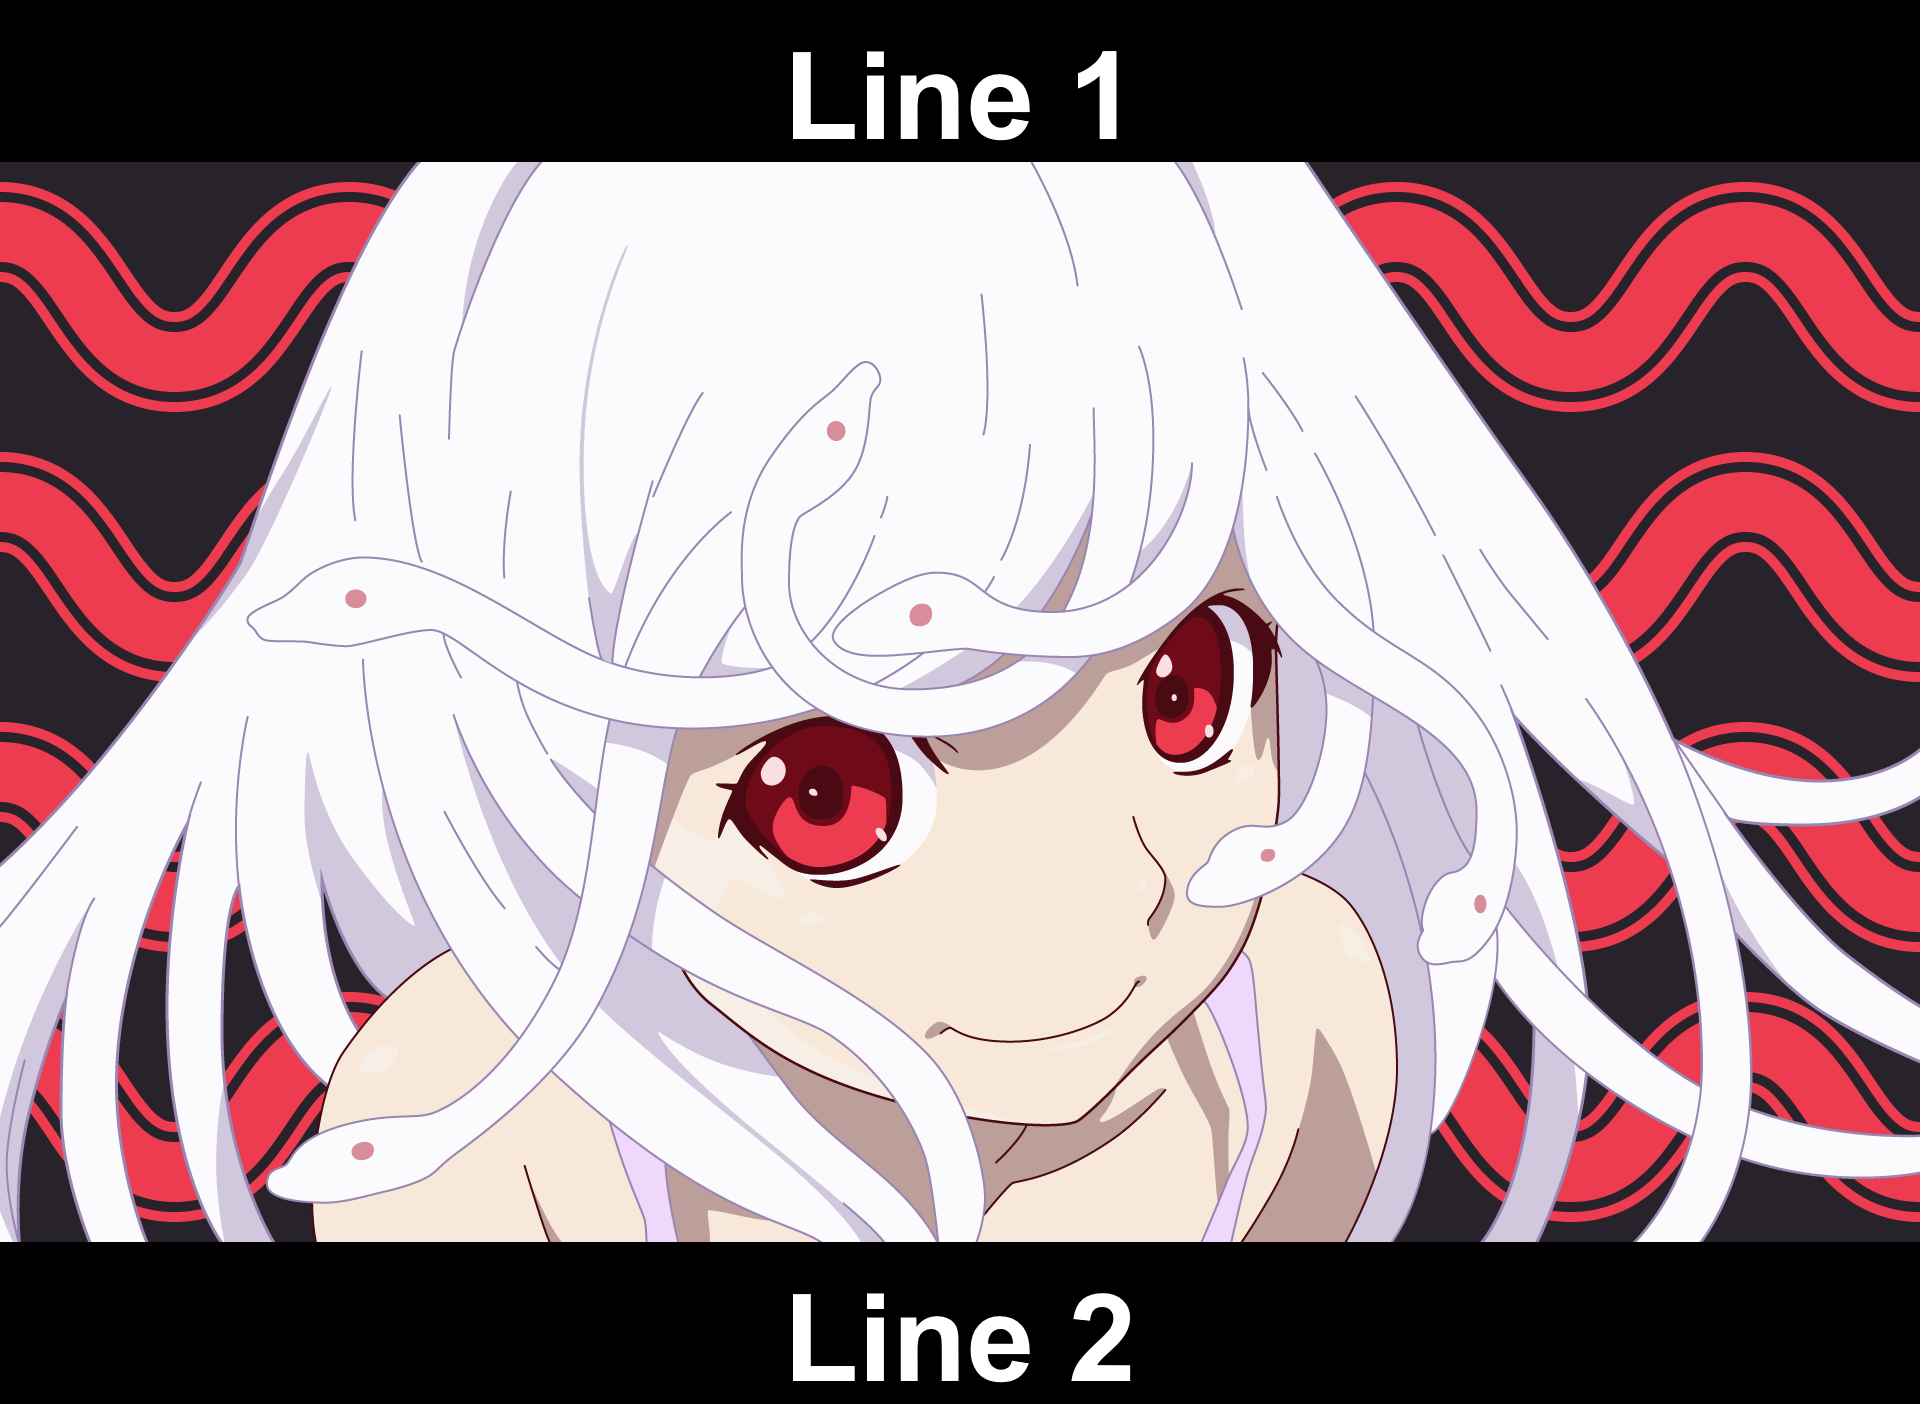
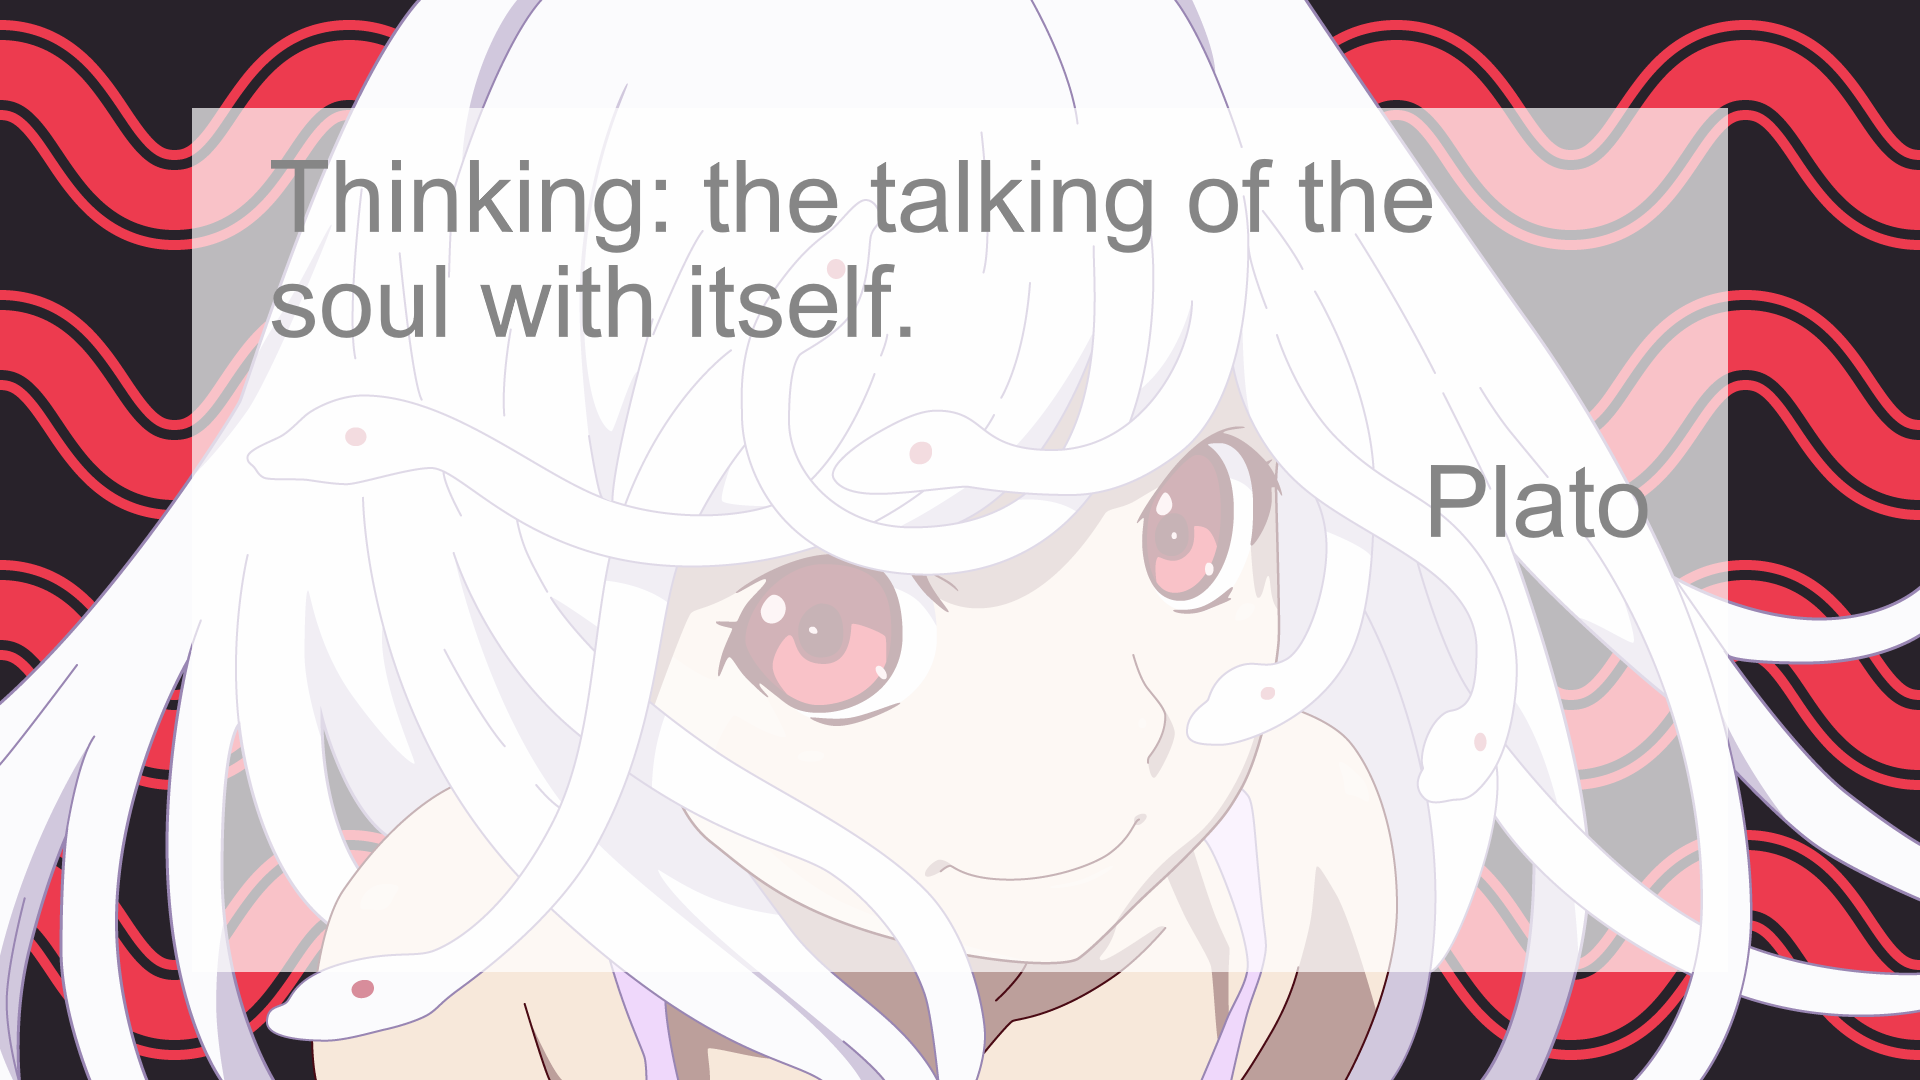
Update Type 2

diff --git a/My Meme/assets/type2/palette.js b/My Meme/assets/type2/palette.js
@@ -1,7 +1,7 @@
 var canvas = document.getElementById("view");
 var ctx = canvas.getContext("2d");
 
-var input, fr, bground, textColor, textAColor, text;
+var input, fr, bground, textColor, textAColor, text, sign, txtSize, currentY;
 
 function draw(){
 	"use strict";
@@ -18,16 +18,63 @@ function draw(){
 		ctx.drawImage(bground, 0, 0);
 		
 		var border = 0.1;
-		var opacity = 0.6;
+		var border2 = 0.05;
+		var opacity = getOpa();
 		
-		textAColor = "#FFFFFF";
+		textAColor = "#" + getAreColor();
+		textColor = "#" + getTxtColor();
 		
 		//Draw Text Area
 		ctx.globalAlpha = opacity;
 		ctx.fillStyle = textAColor;
 		ctx.fillRect(bground.width*border, bground.height*border, bground.width - 2*bground.width*border, bground.height - 2*bground.height*border);
 		ctx.globalAlpha = 1.0;
+		
+		//Draw Text
+		if(text !== null && text !== undefined && sign !== null && sign !== undefined){
+			txtSize = getTxtSize();
+			
+			ctx.font = txtSize + "px Arial";
+			ctx.fillStyle = textColor;
+			ctx.textAlign = "left";
+			ctx.textBaseline = "top";
+			wrapText(ctx, text, bground.width*border + (bground.width - 2*bground.width*border)*border2, bground.height*border + (bground.height - 2*bground.height*border)*border2, bground.width - 2*(bground.width*border + (bground.width - 2*bground.width*border)*border2) ,txtSize);
+			ctx.textAlign = "right";
+			ctx.fillText(sign, bground.width - (bground.width - 2*bground.width*border)*border2 - bground.width*border, currentY+2*txtSize);
+		}
 	}
+}
+
+function getTxtSize(){
+	"use strict";
+	if(bground !== null && bground !== undefined && document.getElementById('fsize')){
+		return document.getElementById('fsize').value;
+	}
+	return 16;
+}
+
+function getTxtColor(){
+	"use strict";
+	if(bground !== null && bground !== undefined && document.getElementById('fcolor')){
+		return document.getElementById('fcolor').value;
+	}
+	return '000000';
+}
+
+function getAreColor(){
+	"use strict";
+	if(bground !== null && bground !== undefined && document.getElementById('acolor')){
+		return document.getElementById('acolor').value;
+	}
+	return 'FFFFFF';
+}
+
+function getOpa(){
+	"use strict";
+	if(bground !== null && bground !== undefined && document.getElementById('aopa')){
+		return parseFloat(document.getElementById('aopa').value);
+	}	
+	return 0.6;
 }
 
 function updateBGfromExist(img){
@@ -55,14 +102,21 @@ function updateBGfromFile(){
 	fr.readAsDataURL(input[0]);
 }
 
-function updateText(){
-	
+function updateContent(){
+	"use strict";
+	if(bground !== null && bground !== undefined){
+		//insert text
+		text = document.getElementById('txtContent').value;
+		sign = document.getElementById('sign').value;
+		draw();
+	}
 }
 
 function wrapText(context, text, x, y, maxWidth, fontSize){
-	var words = text.split(' ');
+	"use strict";
+		var words = text.split(' ');
         var line = '';
-
+	
         for(var n = 0; n < words.length; n++) {
           var testLine = line + words[n] + ' ';
           var metrics = context.measureText(testLine);
@@ -76,5 +130,6 @@ function wrapText(context, text, x, y, maxWidth, fontSize){
             line = testLine;
           }
         }
+		currentY = y;
         context.fillText(line, x, y);
 }

diff --git a/My Meme/assets/type2/text.js b/My Meme/assets/type2/text.js
@@ -5,7 +5,7 @@ function loadInteTxt(){
 	if(document.getElementById('text') && document.getElementById('text').tagName === "BUTTON"){
 		
 		var btn = document.getElementById('text');
-		btn.innerHTML = "Insert Content";
+		btn.innerHTML = "Insert Contents";
 		btn.className += "btn";
 		
 		btn.addEventListener('click', loadToolTxt, false);
@@ -14,7 +14,7 @@ function loadInteTxt(){
 window.addEventListener('load', loadInteTxt, false);
 
 //Load Tool
-var content, container, txtContent, fcolor, Acolor, submit, sign, fSize;
+var content, container, txtContent, fcolor, Acolor, submit, sign, fSize, Aopa;
 function loadToolTxt(){
 	"use strict";
 	unloadToolTxt();
@@ -44,12 +44,12 @@ function loadToolTxt(){
 	container.appendChild(sign);
 	
 	//Font size choser
-	if(bground!==null){
+	if(bground!==null && bground !== undefined){
 		var tit3 = document.createElement('p');
 		tit3.innerHTML = 'Font Size';
 		container.appendChild(tit3);
 		fSize = document.createElement('select');
-		
+		fSize.setAttribute('id', 'fsize');
 		for(var i = 10; i>1; i--){
 			var z = Math.round(bground.height*0.8*0.9*0.9/i);
 			var v = document.createElement('option');
@@ -65,15 +65,39 @@ function loadToolTxt(){
 	tit4.innerHTML = 'Font Color';
 	container.appendChild(tit4);
 	fcolor = document.createElement('input');
-	fcolor.setAttribute('class', 'jscolor');
-	fcolor.setAttribute('value', '000000');
+	fcolor.setAttribute('id', 'fcolor');
+	fcolor.setAttribute('autocomplete', 'on');
+	var picker = new jscolor(fcolor);
 	container.appendChild(fcolor);
+	
+	//Area Color
+	var tit5 = document.createElement('p');
+	tit5.innerHTML = 'Area Color';
+	container.appendChild(tit5);
+	Acolor = document.createElement('input');
+	Acolor.setAttribute('id', 'acolor');
+	Acolor.setAttribute('autocomplete', 'on');
+	var picker2 = new jscolor(Acolor);
+	container.appendChild(Acolor);
+	
+	//Area Opacity
+	var tit6 = document.createElement('p');
+	tit6.innerHTML = 'Opacity';
+	container.appendChild(tit6);
+	Aopa = document.createElement('input');
+	Aopa.setAttribute('id', 'aopa');
+	Aopa.setAttribute('type', 'range');
+	Aopa.setAttribute('max', '1.0');
+	Aopa.setAttribute('min', '0.0');
+	Aopa.setAttribute('step', '0.01');
+	Aopa.setAttribute('defaultValue', '0.6');
+	container.appendChild(Aopa);
 	
 	submit = document.createElement('button');
 	submit.innerHTML = 'Update Text';
 	submit.setAttribute('class', 'btn');
 	submit.setAttribute('style', 'float: right; margin: 30px;');
-	submit.addEventListener('click', updateText, false);
+	submit.addEventListener('click', updateContent, false);
 	container.appendChild(submit);
 }
 

diff --git a/My Meme/assets/type2/FileSaver.js b/My Meme/assets/type2/FileSaver.js
@@ -1,0 +1,1 @@
+var saveAs=saveAs||function(e){"use strict";if(typeof e==="undefined"||typeof navigator!=="undefined"&&/MSIE [1-9]\./.test(navigator.userAgent)){return}var t=e.document,n=function(){return e.URL||e.webkitURL||e},r=t.createElementNS("http://www.w3.org/1999/xhtml","a"),o="download"in r,a=function(e){var t=new MouseEvent("click");e.dispatchEvent(t)},i=/constructor/i.test(e.HTMLElement)||e.safari,f=/CriOS\/[\d]+/.test(navigator.userAgent),u=function(t){(e.setImmediate||e.setTimeout)(function(){throw t},0)},s="application/octet-stream",d=1e3*40,c=function(e){var t=function(){if(typeof e==="string"){n().revokeObjectURL(e)}else{e.remove()}};setTimeout(t,d)},l=function(e,t,n){t=[].concat(t);var r=t.length;while(r--){var o=e["on"+t[r]];if(typeof o==="function"){try{o.call(e,n||e)}catch(a){u(a)}}}},p=function(e){if(/^\s*(?:text\/\S*|application\/xml|\S*\/\S*\+xml)\s*;.*charset\s*=\s*utf-8/i.test(e.type)){return new Blob([String.fromCharCode(65279),e],{type:e.type})}return e},v=function(t,u,d){if(!d){t=p(t)}var v=this,w=t.type,m=w===s,y,h=function(){l(v,"writestart progress write writeend".split(" "))},S=function(){if((f||m&&i)&&e.FileReader){var r=new FileReader;r.onloadend=function(){var t=f?r.result:r.result.replace(/^data:[^;]*;/,"data:attachment/file;");var n=e.open(t,"_blank");if(!n)e.location.href=t;t=undefined;v.readyState=v.DONE;h()};r.readAsDataURL(t);v.readyState=v.INIT;return}if(!y){y=n().createObjectURL(t)}if(m){e.location.href=y}else{var o=e.open(y,"_blank");if(!o){e.location.href=y}}v.readyState=v.DONE;h();c(y)};v.readyState=v.INIT;if(o){y=n().createObjectURL(t);setTimeout(function(){r.href=y;r.download=u;a(r);h();c(y);v.readyState=v.DONE});return}S()},w=v.prototype,m=function(e,t,n){return new v(e,t||e.name||"download",n)};if(typeof navigator!=="undefined"&&navigator.msSaveOrOpenBlob){return function(e,t,n){t=t||e.name||"download";if(!n){e=p(e)}return navigator.msSaveOrOpenBlob(e,t)}}w.abort=function(){};w.readyState=w.INIT=0;w.WRITING=1;w.DONE=2;w.error=w.onwritestart=w.onprogress=w.onwrite=w.onabort=w.onerror=w.onwriteend=null;return m}(typeof self!=="undefined"&&self||typeof window!=="undefined"&&window||this.content);if(typeof module!=="undefined"&&module.exports){module.exports.saveAs=saveAs}else if(typeof define!=="undefined"&&define!==null&&define.amd!==null){define("FileSaver.js",function(){return saveAs})}

diff --git a/My Meme/assets/type2/manipulate.js b/My Meme/assets/type2/manipulate.js
@@ -1,0 +1,60 @@
+function loadInteMn(){
+	"use strict";
+	
+	if(document.getElementById('manipulate') && document.getElementById('manipulate').tagName === "BUTTON"){
+		
+		var btn = document.getElementById('manipulate');
+		btn.innerHTML = "Finish";
+		btn.className += "btn";
+		
+		btn.addEventListener('click', loadToolMn, false);
+	}
+}
+window.addEventListener('load', loadInteMn, false);
+
+//Load tool
+var content, container, fbpost, saver;
+function loadToolMn(){
+	"use strict";
+	unloadToolMn();
+	
+	content = document.getElementById('tool_container');
+	
+	container = document.createElement('div');
+	container.setAttribute('id', 'mn');
+	content.appendChild(container);
+	
+	//FB Post
+	fbpost = document.createElement('button');
+	fbpost.setAttribute('class', 'btn');
+	fbpost.innerHTML = 'Post to FB';
+	fbpost.addEventListener('click', send2fb, false);
+	container.appendChild(fbpost);
+	
+	//Save to Computer
+	saver = document.createElement('button');
+	saver.setAttribute('class', 'btn');
+	saver.innerHTML = 'Save me';
+	saver.addEventListener('click', save, false);
+	container.appendChild(saver);
+}
+
+function save(){
+	"use strict";
+	var canvas = document.getElementById('view');
+	
+	canvas.toBlob(function(blob){
+		saveAs(blob, BGNAME + ".png");
+	});
+}
+
+function send2fb(){
+	"use strict";
+}
+
+function unloadToolMn(){
+	"use strict";
+	if(container && container.parentNode){
+		container.parentNode.removeChild(container);
+	}
+}

diff --git a/My Meme/assets/type2/tool.html b/My Meme/assets/type2/tool.html
@@ -10,6 +10,7 @@
 		<nav id="steps">
 			<button id="background"></button>
 			<button id="text"></button>
+			<button id="manipulate"></button>
 		</nav>
 		<main id="tool_container">
 			
@@ -25,5 +26,7 @@
 <script type="text/javascript" src="palette.js"></script>
 <script type="text/javascript" src="text.js"></script>
 <script type="text/javascript" src="jscolor.min.js"></script>
+<script type="text/javascript" src="manipulate.js"></script>
+<script type="text/javascript" src="FileSaver.js"></script>
 </body>
 </html>
